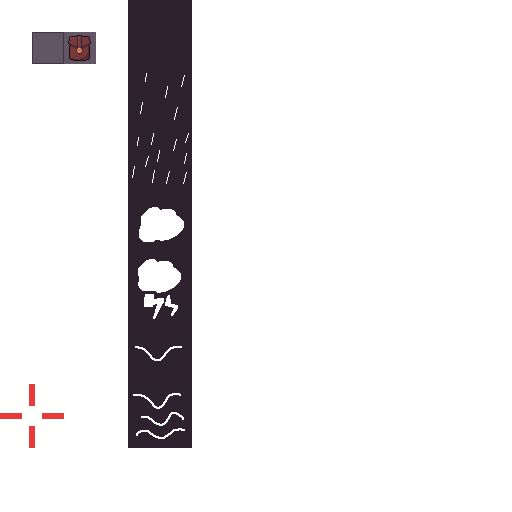
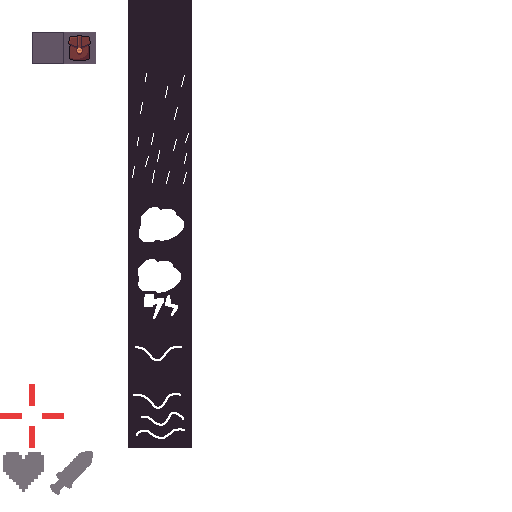
0.6.767

Changed region(s): [[0.0, 0.875, 0.1875, 0.9688]]

diff --git a/gamestream_flutter/lib/game_inventory_ui.dart b/gamestream_flutter/lib/game_inventory_ui.dart
@@ -73,10 +73,14 @@ class GameInventoryUI {
                     padding: const EdgeInsets.all(6),
                     color: Colors.white12,
                     width: 150,
-                    child: Column(
+                    child: Row(
                       crossAxisAlignment: CrossAxisAlignment.center,
+                      mainAxisAlignment: MainAxisAlignment.spaceBetween,
                       children: [
-                        text("Health", color: Colors.black87, bold: true),
+                        Container(
+                            width: 20,
+                            height: 20,
+                            child: FittedBox(child: GameUI.buildAtlasIconType(IconType.Heart, scale: 0.62))),
                         text("$currentHealth / $maxHealth", color: Colors.black87),
                       ],
                     ),
@@ -92,10 +96,15 @@ class GameInventoryUI {
                 color: Colors.white12,
                 padding: const EdgeInsets.all(6),
                 width: 150,
-                child: Column(
+                child: Row(
                   crossAxisAlignment: CrossAxisAlignment.center,
+                  mainAxisAlignment: MainAxisAlignment.spaceBetween,
                   children: [
-                    text("Damage", color: Colors.black87, bold: true),
+                    // text("Damage", color: Colors.black87, bold: true),
+                    Container(
+                        width: 20,
+                        height: 20,
+                        child: FittedBox(child: GameUI.buildAtlasIconType(IconType.Damage, scale: 0.62))),
                     text(damage, color: Colors.black87),
                   ],
                 ),

diff --git a/gamestream_flutter/lib/src/editor/src/editor_ui.dart b/gamestream_flutter/lib/src/editor/src/editor_ui.dart
@@ -457,8 +457,7 @@ class EditorUI {
       (int activeRain) => buildIconWeatherControl(
             tooltip: '${RainType.getName(rain)} Rain',
             action: () => GameNetwork.sendClientRequestWeatherSetRain(rain),
-            icon: GameUI.buildAtlasIconType(convertRainToIconType(rain),
-                size: 64),
+            icon: GameUI.buildAtlasIconType(convertRainToIconType(rain)),
             isActive: rain == activeRain,
           ));
 
@@ -469,8 +468,7 @@ class EditorUI {
             action: () =>
                 GameNetwork.sendClientRequestWeatherSetLightning(lightning),
             icon: GameUI.buildAtlasIconType(
-                convertLightningToIconType(lightning),
-                size: 64),
+                convertLightningToIconType(lightning)),
             isActive: lightning == activeLightning,
           ));
 
@@ -479,8 +477,7 @@ class EditorUI {
       (int activeWindType) => buildIconWeatherControl(
             tooltip: '${WindType.getName(windType)} Wind',
             action: () => GameNetwork.sendClientRequestWeatherSetWind(windType),
-            icon: GameUI.buildAtlasIconType(convertWindToIconType(windType),
-                size: 64),
+            icon: GameUI.buildAtlasIconType(convertWindToIconType(windType)),
             isActive: windType == activeWindType,
           ));
 

diff --git a/gamestream_flutter/lib/game_atlas.dart b/gamestream_flutter/lib/game_atlas.dart
@@ -190,6 +190,8 @@ class AtlasIcons {
     IconType.Sound_Disabled: 224,
     IconType.Plus: 32,
     IconType.Minus: 64,
+    IconType.Heart: 0,
+    IconType.Damage: 48,
   }[itemType] ?? 0;
 
   static double getSrcY(int itemType) => const  <int, double> {
@@ -215,7 +217,23 @@ class AtlasIcons {
     IconType.Inventory: 32,
     IconType.Plus: 96,
     IconType.Minus: 96,
+    IconType.Heart: 448,
+    IconType.Damage: 448,
   }[itemType] ?? 0;
+
+  static double getSrcSize(int itemType) => const  <int, double> {
+      IconType.Heart: 48.0,
+      IconType.Damage: 48.0,
+      IconType.Rain_None: 64.0,
+      IconType.Rain_Light: 64.0,
+      IconType.Rain_Heavy: 64.0,
+      IconType.Lightning_Off: 64.0,
+      IconType.Lightning_Nearby: 64.0,
+      IconType.Lightning_On: 64.0,
+      IconType.Wind_Calm: 64.0,
+      IconType.Wind_Gentle: 64.0,
+      IconType.Wind_Strong: 64.0,
+  }[itemType] ?? 32;
 }
 
 class AtlasNodeX {

diff --git a/gamestream_flutter/lib/game_ui.dart b/gamestream_flutter/lib/game_ui.dart
@@ -312,13 +312,13 @@ class GameUI {
       buildAtlasIconType(IconType.Slot, scale: GameInventoryUI.Slot_Scale);
 
   static Widget buildAtlasIconType(int iconType,
-          {double scale = 1, int color = 1, double size = AtlasIcons.Size}) =>
+          {double scale = 1, int color = 1}) =>
       Engine.buildAtlasImage(
         image: GameImages.atlas_icons,
         srcX: AtlasIcons.getSrcX(iconType),
         srcY: AtlasIcons.getSrcY(iconType),
-        srcWidth: size,
-        srcHeight: size,
+        srcWidth: AtlasIcons.getSrcSize(iconType),
+        srcHeight: AtlasIcons.getSrcSize(iconType),
         scale: scale,
         color: color,
       );

diff --git a/bleed-server/lib/src/network/connection.dart b/bleed-server/lib/src/network/connection.dart
@@ -677,6 +677,7 @@ class Connection with ByteReader {
     game.customOnPlayerJoined(player);
     player.writePlayerInventory();
     player.writePlayerStats();
+    player.writePlayerEnergy();
     player.health = player.maxHealth;
 
 

diff --git a/gamestream_flutter/lib/enums/icon_type.dart b/gamestream_flutter/lib/enums/icon_type.dart
@@ -24,4 +24,6 @@ class IconType {
   static const Box = 28;
   static const Plus = 29;
   static const Minus = 30;
+  static const Heart = 31;
+  static const Damage = 32;
 }

diff --git a/bleed-common/lib/src/version.dart b/bleed-common/lib/src/version.dart
@@ -1,4 +1,4 @@
-const version = '0.6.766';
+const version = '0.6.767';
 
 
 

diff --git a/bleed-server/lib/common/src/version.dart b/bleed-server/lib/common/src/version.dart
@@ -1,4 +1,4 @@
-const version = '0.6.766';
+const version = '0.6.767';
 
 
 

diff --git a/gamestream_flutter/README.md b/gamestream_flutter/README.md
@@ -90,15 +90,22 @@ ctrl + w:   minimal mode
 [ ] saturation changes over time of day and night
 [ ] hue changes over time of day and night
 [ ] respawn cut grass
-[ ] replace health and damage text with icons
 [ ] melee attack sounds
 [ ] melee attack slash effect
 
 [CRITICAL]
 [ ] fix render visibility algorithm
 [ ] fix physics characters teleport through walls on struck
+[ ] fix node type boulder
+[ ] fix node type fireplace
+[ ] fix node type chimney
+[ ] fix node type oven
+
+06.01.2023
+[x] replace health and damage text with icons
 
 05.01.2023
+[x] knife attack sounds
 [x] melee items deplete energy
 [x] fix repeat error message
 [x] game debug ui modify ambient color
